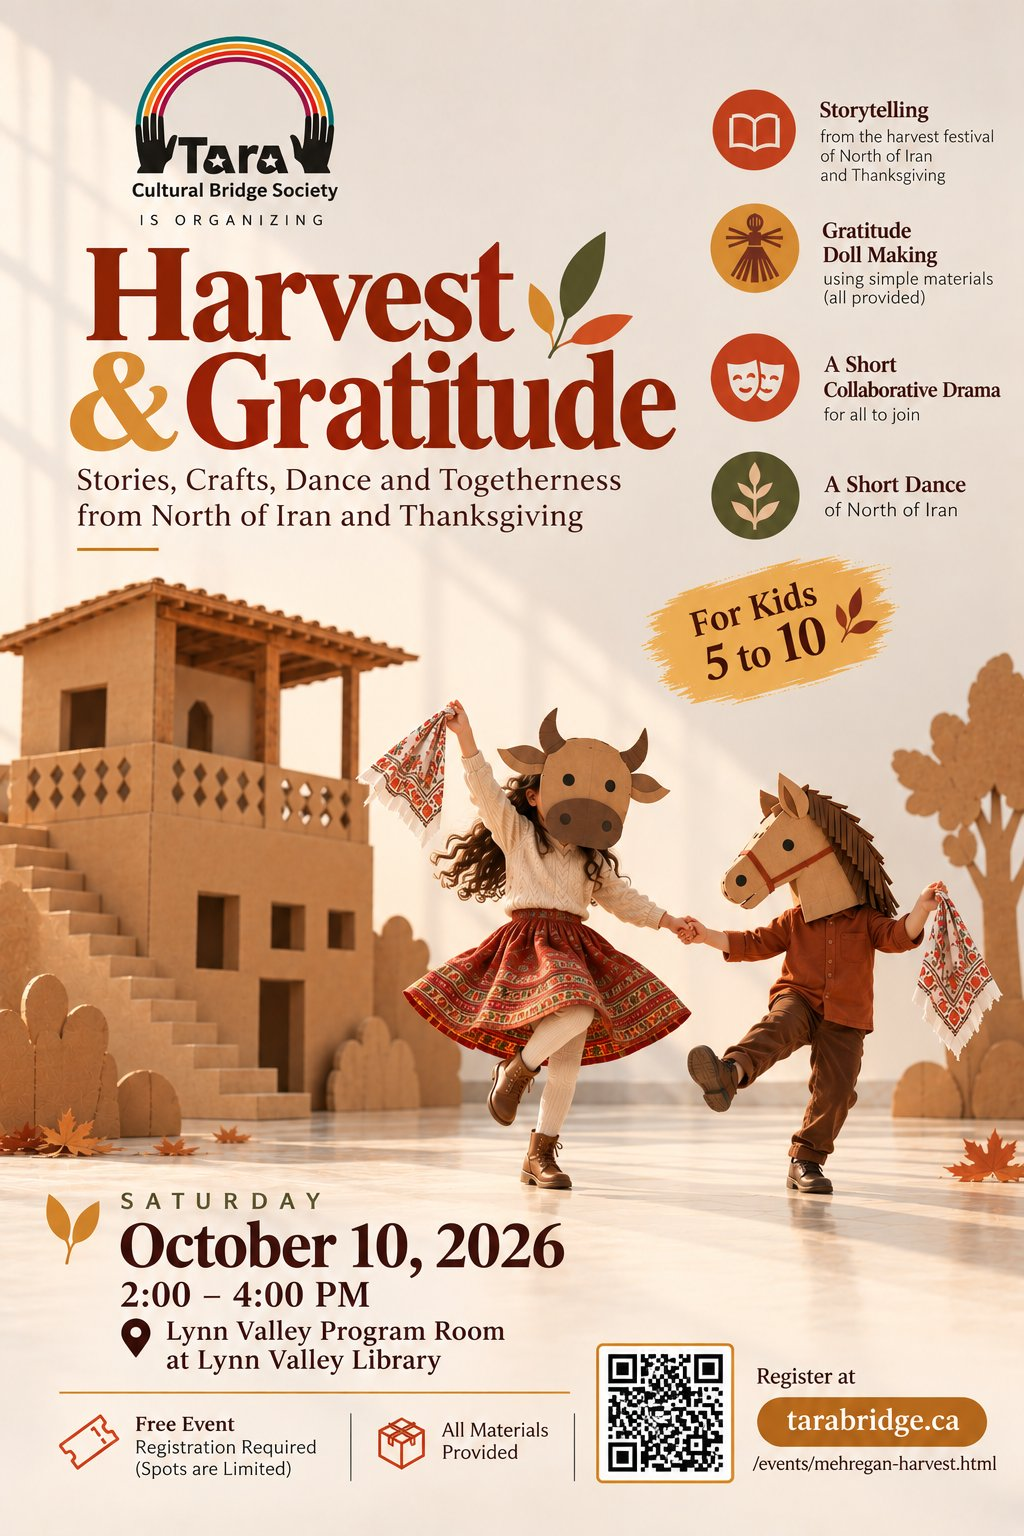
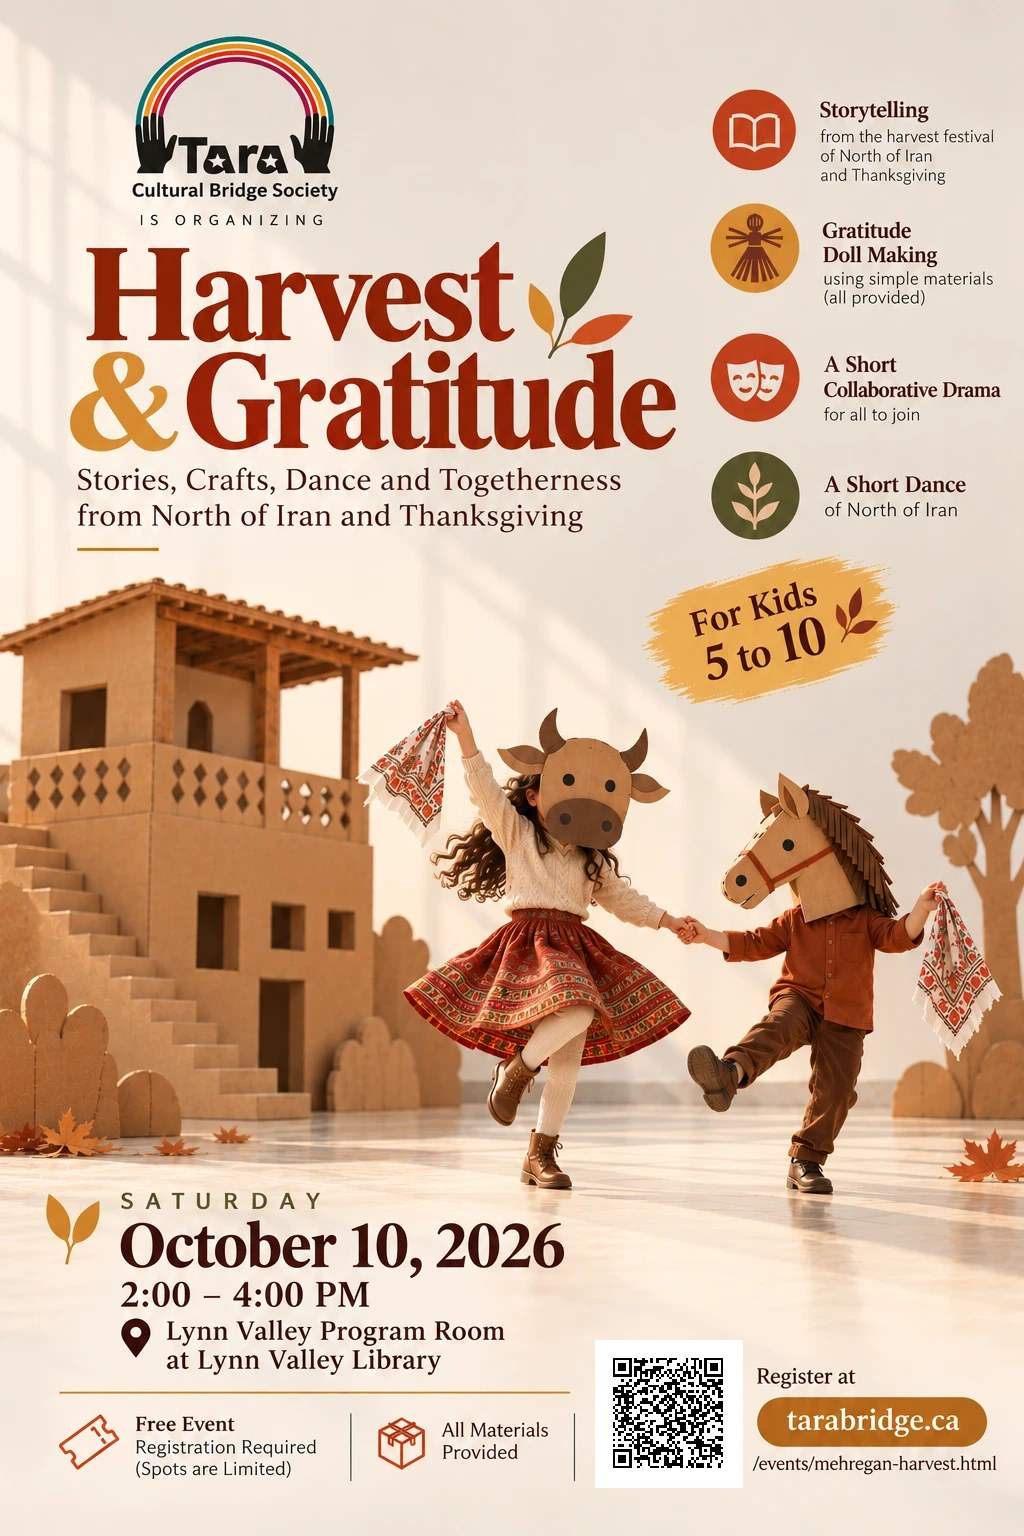
Replace Harvest & Gratitude poster with updated version (adds QR code and register link)

Changed region(s): [[0.5625, 0.875, 0.75, 0.9688]]

diff --git a/events/mehregan-harvest.html b/events/mehregan-harvest.html
@@ -134,7 +134,7 @@
 
       <figure class="hg-poster" style="margin:0;">
         <a href="/images/harvest-gratitude-poster.jpg" target="_blank" rel="noopener">
-          <img src="/images/harvest-gratitude-poster.jpg" width="1024" height="1536" alt="Harvest & Gratitude poster: stories, crafts, dance and togetherness from North of Iran and Thanksgiving. For kids 5 to 10. Saturday, October 10, 2026, 2:00–4:00 PM, Lynn Valley Program Room at Lynn Valley Library. Free event, registration required." id="posterImg">
+          <img src="/images/harvest-gratitude-poster.jpg" width="1024" height="1536" alt="Harvest & Gratitude poster: stories, crafts, dance and togetherness from North of Iran and Thanksgiving. For kids 5 to 10. Saturday, October 10, 2026, 2:00–4:00 PM, Lynn Valley Program Room at Lynn Valley Library. Free event, registration required, all materials provided. Register at tarabridge.ca/events/mehregan-harvest.html (QR code)." id="posterImg">
         </a>
         <figcaption id="posterCap">Event poster — tap to open full size</figcaption>
       </figure>
